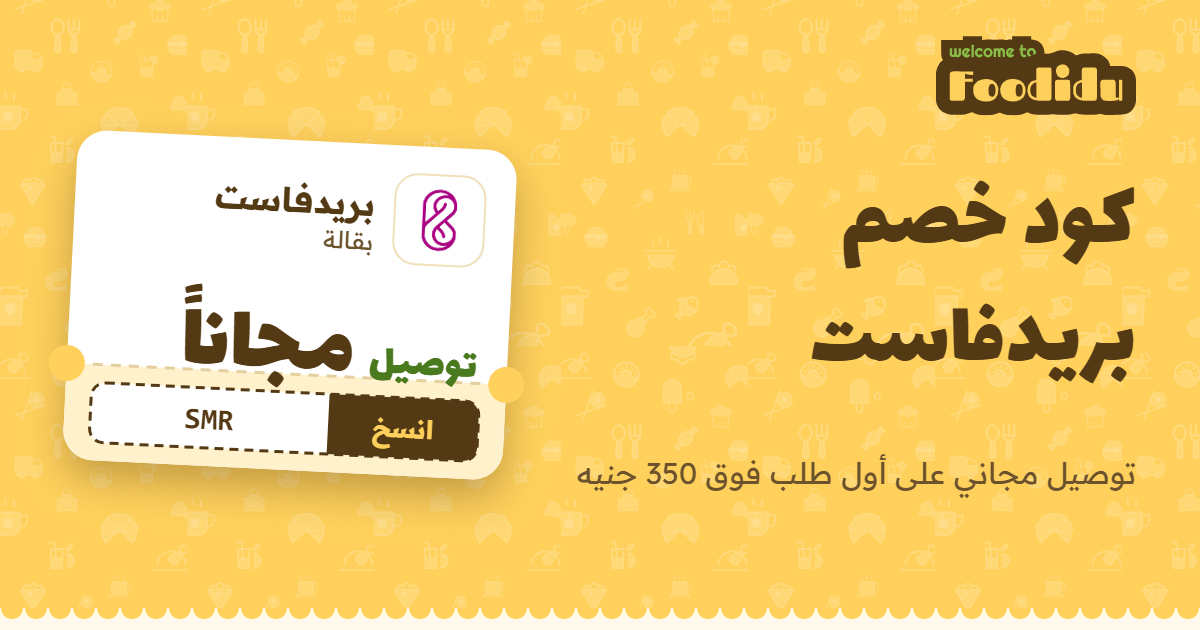
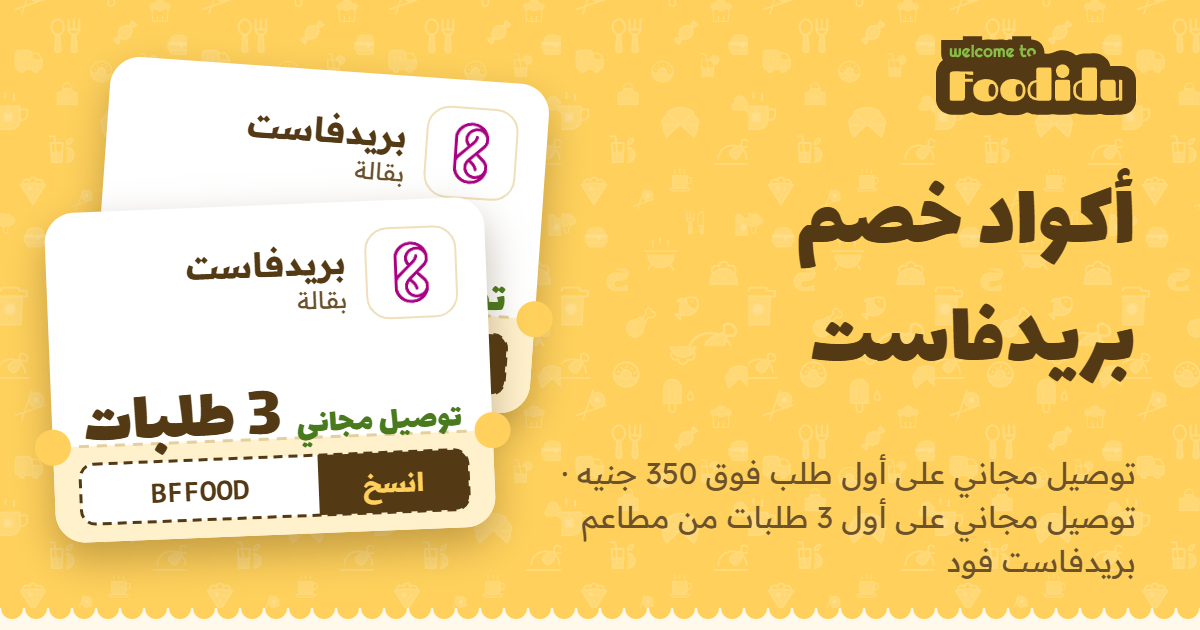
Breadfast: add BFFOOD for Breadfast Food restaurant orders
BFFOOD gives new customers free delivery on their first 3 orders from the Breadfast Food
(restaurants) section, from Breadfast Food's own ad. Breadfast pages now target "Breadfast
promo codes" for groceries and restaurants (Search Console shows searches for the restaurant
code at about position 11), with updated share images.

Extra codes can carry their own lastVerified ("" = not checked yet), so BFFOOD shows no
"checked" label until someone tests it; the dashboard shows the date per code, and its
table button marks every code of the brand as checked.

diff --git a/static/js/admin.js b/static/js/admin.js
@@ -359,7 +359,7 @@ window.FoodiduAdmin = (() => {
       lastVerified: date("آخر مرة جربنا فيها الكود بنفسنا", { today: true, hint: "لو فاضي، الكود بيظهر من غير \"اتحقق منه\"." }),
       badge: badge("الخصم على التذكرة"), offer: bi("العرض في سطر", { req: true, hint: "زي: خصم 30% على أول طلب بحد أقصى 150 جنيه" }),
       terms: bi("الشروط", { req: true, area: true }), where: bi("بيتستخدم فين", { req: true, hint: "زي: تطبيق رابيت" }),
-      moreCodes: list("أكواد تانية لنفس البراند (اختياري)", () => group({ code: text("الكود", { req: true, dir: "ltr", pattern: /^\S+$/, patternMsg: "من غير مسافات" }), badge: badge("الخصم على التذكرة"), offer: bi("العرض في سطر", { req: true }), terms: bi("الشروط", { req: true, area: true }), exclusive: check("حصري") }), { item: "كود", add: "كود تاني" }),
+      moreCodes: list("أكواد تانية لنفس البراند (اختياري)", () => group({ code: text("الكود", { req: true, dir: "ltr", pattern: /^\S+$/, patternMsg: "من غير مسافات" }), badge: badge("الخصم على التذكرة"), offer: bi("العرض في سطر", { req: true }), terms: bi("الشروط", { req: true, area: true }), exclusive: check("حصري"), lastVerified: date("آخر مرة جربنا الكود ده بنفسنا", { today: true, hint: "لو فاضي، الكود ده بيظهر من غير \"اتحقق منه\"." }) }), { item: "كود", add: "كود تاني" }),
       about: bi("عن البراند", { req: true, area: true, hint: "جملتين عن البراند والكود. بيظهر في صفحة البراند." }), seo: seo()
     };
     idFields(isNew, "-PromoCode", f);
@@ -470,10 +470,11 @@ window.FoodiduAdmin = (() => {
   function brandEditor(key) {
     const b = key && findBrand(key), isNew = !b, f = brandForm(isNew), logoF = logoField(b);
     const cur = b ? clone(b) : { category: "restaurants", region: "eg", badge: { en: ["", "off"], ar: ["", "خصم"] } };
-    for (const [k, x] of Object.entries(f)) x.set(k === "priority" ? cur.priority || "" : cur[k]);
+    const shown = { ...cur, moreCodes: (cur.moreCodes || []).map((m) => ({ ...m, lastVerified: "lastVerified" in m ? m.lastVerified : cur.lastVerified || "" })) };
+    for (const [k, x] of Object.entries(f)) x.set(k === "priority" ? cur.priority || "" : shown[k]);
     return editor(isNew ? "كود جديد" : `تعديل ${b.name.ar}`, f, async () => {
       const v = collect(f);
-      v.moreCodes = v.moreCodes.map((m) => { if (!m.exclusive) delete m.exclusive; return m; });
+      v.moreCodes = v.moreCodes.map((m) => { if (!m.exclusive) delete m.exclusive; if ((m.lastVerified || "") === (v.lastVerified || "")) delete m.lastVerified; return m; });
       clean(v);
       const errs = uniqueErrors(v, b); if (errs.length) throw new Error(errs.join(" "));
       const next = Object.assign(isNew ? {} : clone(b), v);
@@ -575,7 +576,7 @@ window.FoodiduAdmin = (() => {
       tableOf([["البراند", (b) => b.name.ar], ["الكود", (b) => el("code", { text: [b.code, ...(b.moreCodes || []).map((m) => m.code)].join(" · ") })], ["العرض", (b) => b.offer.ar],
         ["آخر تجربة", (b) => b.lastVerified || "ما اتجربش", "adm-date"], ["الترتيب", (b) => (b.priority === "low" ? "في الآخر" : "عادي")]],
       S.data.brands.brands, (b) => [btn("تعديل", open(() => brandEditor(b.key)), "ghost sm"),
-        b.lastVerified !== today() ? btn("جربته النهارده", () => { b.lastVerified = today(); change("brands", `Checked ${b.name.en} today`); render(); }, "ghost sm") : null,
+        b.lastVerified !== today() || (b.moreCodes || []).some((m) => "lastVerified" in m) ? btn(b.moreCodes && b.moreCodes.length ? "جربت أكوادها النهارده" : "جربته النهارده", () => { b.lastVerified = today(); (b.moreCodes || []).forEach((m) => { delete m.lastVerified; }); change("brands", `Checked ${b.name.en} today`); render(); }, "ghost sm") : null,
         btn("حذف", () => removeEntity("brand", b), "ghost sm danger")]));
     else if (S.tab === "rests") body = el("div", null, el("p", { class: "adm-add" }, btn("+ مطعم جديد", open(() => restEditor(null)))),
       tableOf([["المطعم", (r) => r.name.ar], ["العروض", (r) => r.offers.length], ["سارية لحد", (r) => r.validUntil, "adm-date"], ["آخر مراجعة", (r) => r.lastChecked, "adm-date"]],
